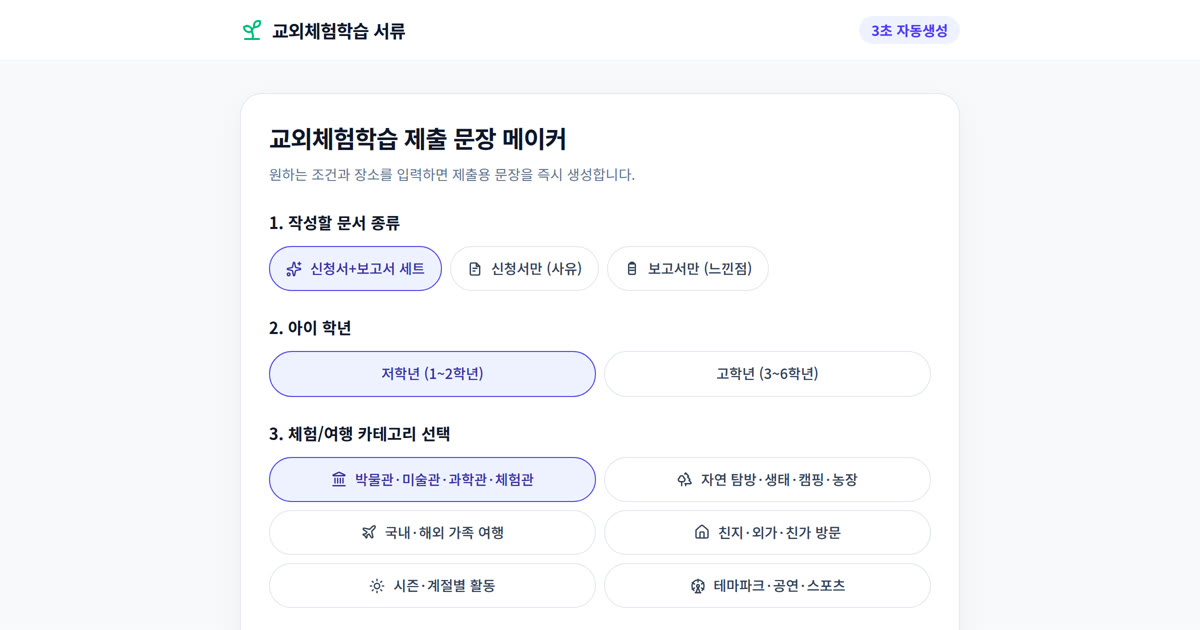
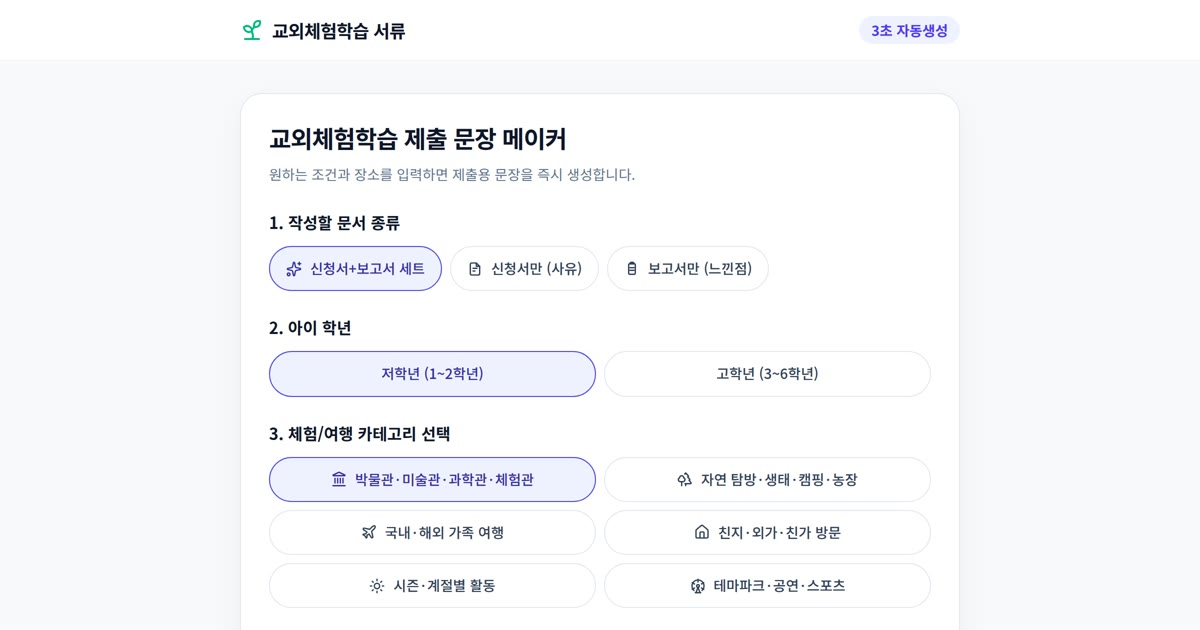
Make the preview image easier for Kakao to read
Re-encode the Open Graph photo as a standard baseline JPEG and point the tags at a new image URL.

diff --git a/app/layout.tsx b/app/layout.tsx
@@ -25,7 +25,7 @@ export const metadata: Metadata = {
     description,
     images: [
       {
-        url: "/og.jpg",
+        url: "/og.jpg?v=2",
         width: 1200,
         height: 630,
         alt: "교외체험학습 제출 문장 메이커 화면",
@@ -36,7 +36,7 @@ export const metadata: Metadata = {
     card: "summary_large_image",
     title,
     description,
-    images: ["/og.jpg"],
+    images: ["/og.jpg?v=2"],
   },
 };
 
